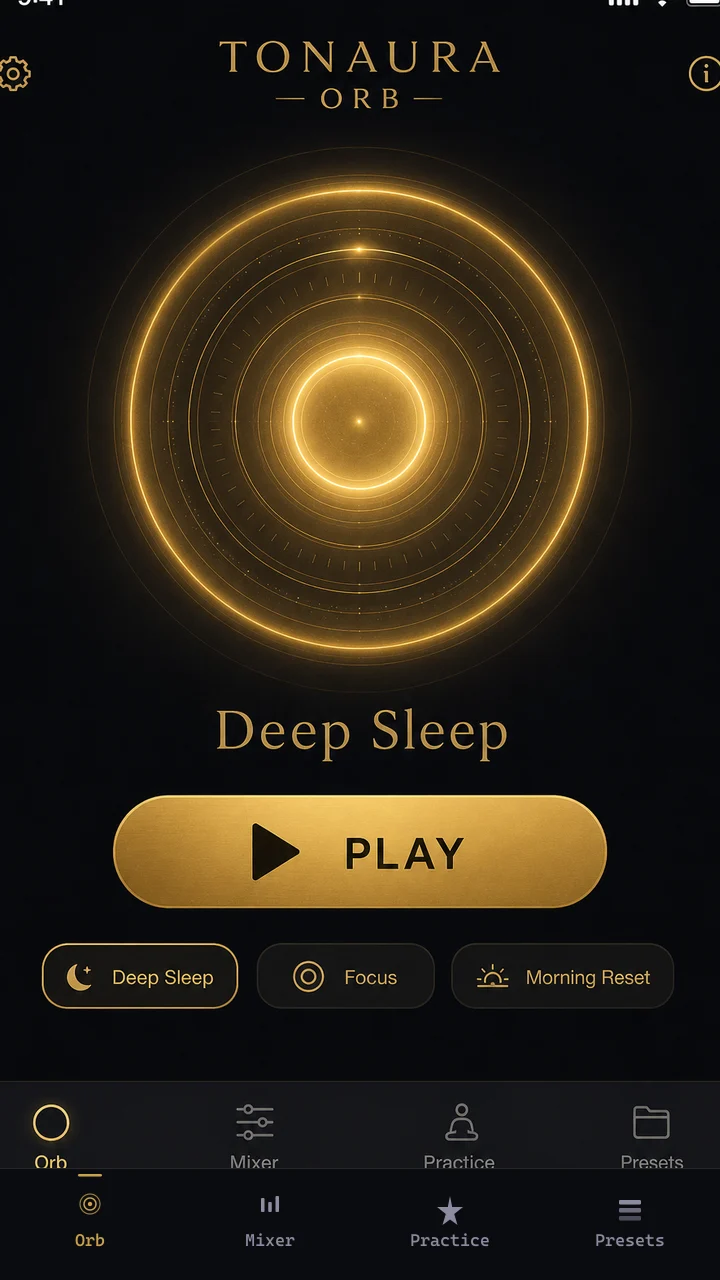
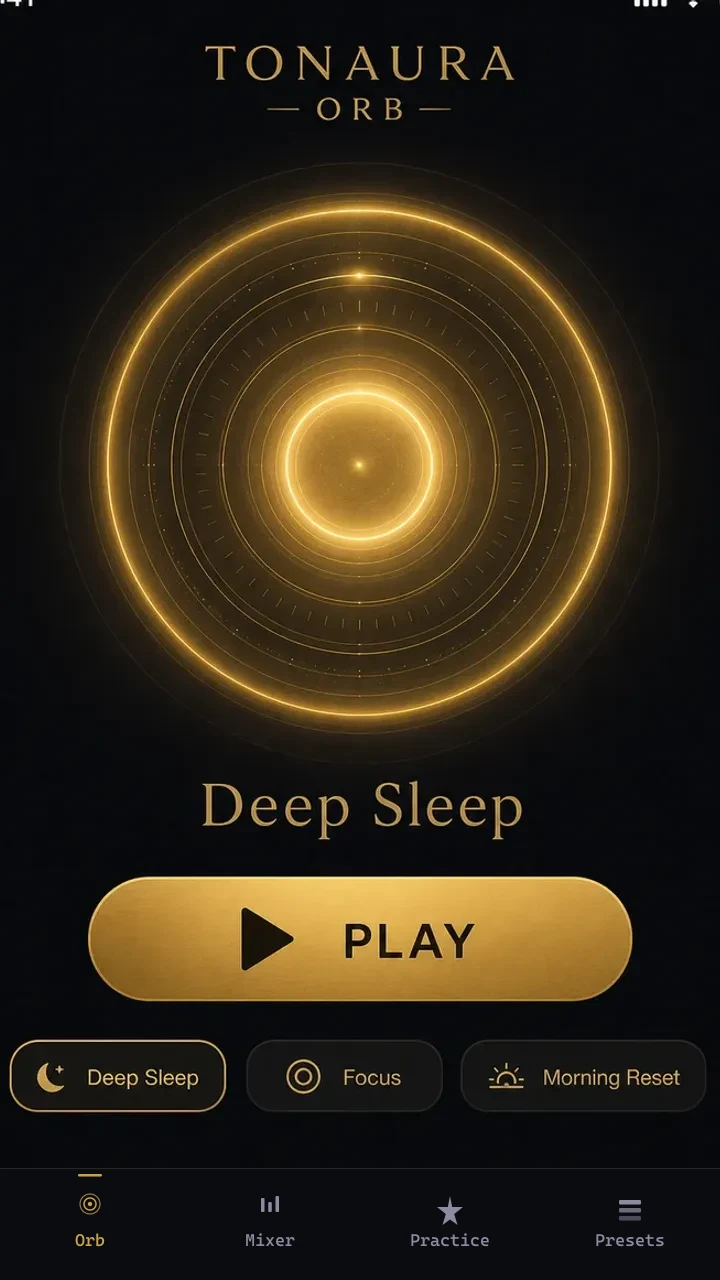
Fix showcase phones to fill frames without double tab bars.
Match screen aspect to 9:16 assets and restamp a single Orb/Mixer/Practice/Presets bar.

diff --git a/public/index.html b/public/index.html
@@ -48,7 +48,7 @@
     </div>
     <div class="hero-stage reveal delay-1" aria-hidden="true">
       <div class="hero-glow"></div>
-      <img class="hero-device" src="/images/app/orb.webp?v=4" width="720" height="1280" alt="Tonaura Orb screen" />
+      <img class="hero-device" src="/images/app/orb.webp?v=6" width="720" height="1280" alt="Tonaura Orb screen" />
     </div>
   </header>
 
@@ -70,7 +70,7 @@
         <p>Touch a tone, shape the field, and hear how layers settle together.</p>
       </div>
       <div class="feature-visual">
-        <img src="/images/app/mixer.webp?v=4" width="720" height="1280" alt="Mixer" loading="lazy" />
+        <img src="/images/app/mixer.webp?v=6" width="720" height="1280" alt="Mixer" loading="lazy" />
       </div>
     </article>
     <article class="feature-row reverse reveal">
@@ -80,7 +80,7 @@
         <p>Play, pause, and quick presets — Deep Sleep, Clear Focus, Morning Reset.</p>
       </div>
       <div class="feature-visual">
-        <img src="/images/app/orb.webp?v=4" width="720" height="1280" alt="Orb" loading="lazy" />
+        <img src="/images/app/orb.webp?v=6" width="720" height="1280" alt="Orb" loading="lazy" />
       </div>
     </article>
     <article class="feature-row reveal">
@@ -90,7 +90,7 @@
         <p>A quiet count of days you sat with a tone — not how long, not how perfect.</p>
       </div>
       <div class="feature-visual">
-        <img src="/images/app/practice.webp?v=4" width="720" height="1280" alt="Practice" loading="lazy" />
+        <img src="/images/app/practice.webp?v=6" width="720" height="1280" alt="Practice" loading="lazy" />
       </div>
     </article>
   </section>
@@ -107,7 +107,7 @@
     <article class="phone-card">
       <div class="phone-frame">
         <div class="phone-screen">
-          <img src="/images/app/mixer.webp?v=4" width="720" height="1280" alt="Tonaura mixer" loading="lazy" />
+          <img src="/images/app/mixer.webp?v=6" width="720" height="1280" alt="Tonaura mixer" loading="lazy" />
         </div>
       </div>
       <h3>The mixer</h3>
@@ -117,7 +117,7 @@
     <article class="phone-card">
       <div class="phone-frame">
         <div class="phone-screen">
-          <img src="/images/app/orb.webp?v=4" width="720" height="1280" alt="Tonaura orb mode" loading="lazy" />
+          <img src="/images/app/orb.webp?v=6" width="720" height="1280" alt="Tonaura orb mode" loading="lazy" />
         </div>
       </div>
       <h3>Orb mode</h3>
@@ -127,7 +127,7 @@
     <article class="phone-card">
       <div class="phone-frame">
         <div class="phone-screen">
-          <img src="/images/app/practice.webp?v=4" width="720" height="1280" alt="Tonaura practice streak" loading="lazy" />
+          <img src="/images/app/practice.webp?v=6" width="720" height="1280" alt="Tonaura practice streak" loading="lazy" />
         </div>
       </div>
       <h3>Practice</h3>
@@ -137,7 +137,7 @@
     <article class="phone-card">
       <div class="phone-frame">
         <div class="phone-screen">
-          <img src="/images/app/presets.webp?v=4" width="720" height="1280" alt="Tonaura presets" loading="lazy" />
+          <img src="/images/app/presets.webp?v=6" width="720" height="1280" alt="Tonaura presets" loading="lazy" />
         </div>
       </div>
       <h3>Presets</h3>
@@ -148,11 +148,11 @@
       <div class="phone-frame">
         <div class="phone-screen" data-ambient-phone>
           <div class="ambient-slides">
-            <img src="/images/app/ambients/winter.webp?v=4" alt="Winter ambient" class="is-active" />
-            <img src="/images/app/ambients/autumn.webp?v=4" alt="Autumn ambient" />
-            <img src="/images/app/ambients/summer.webp?v=4" alt="Summer ambient" />
-            <img src="/images/app/ambients/rain.webp?v=4" alt="Rain ambient" />
-            <img src="/images/app/ambients/nightsky.webp?v=4" alt="Night sky ambient" />
+            <img src="/images/app/ambients/winter.webp?v=6" alt="Winter ambient" class="is-active" />
+            <img src="/images/app/ambients/autumn.webp?v=6" alt="Autumn ambient" />
+            <img src="/images/app/ambients/summer.webp?v=6" alt="Summer ambient" />
+            <img src="/images/app/ambients/rain.webp?v=6" alt="Rain ambient" />
+            <img src="/images/app/ambients/nightsky.webp?v=6" alt="Night sky ambient" />
           </div>
         </div>
       </div>

diff --git a/scripts/fix-showcase-phone-fit.js b/scripts/fix-showcase-phone-fit.js
@@ -1,0 +1,110 @@
+/**
+ * Fix showcase phone screens:
+ * - strip double tab bars (original + stamped)
+ * - restamp a single clean 4-tab bar
+ * - keep exact 720x1280 (9:16) for CSS frame match
+ */
+const sharp = require("sharp");
+const fs = require("fs");
+const path = require("path");
+
+const ROOT = process.cwd();
+const OUT = path.join(ROOT, "public/images/app");
+const MIRROR = path.join(ROOT, "tonaura-website/tonaura-website-final/images/app");
+const W = 720;
+const H = 1280;
+const TAB_H = 112;
+/** Approximate height of the leftover original tab strip above the stamp */
+const OLD_TAB_H = 108;
+
+function tabBarSvg(activeIndex) {
+  const labels = ["Orb", "Mixer", "Practice", "Presets"];
+  const slot = W / 4;
+  const items = labels
+    .map((label, i) => {
+      const x = Math.round(slot * i + slot / 2);
+      const on = i === activeIndex;
+      const color = on ? "#C9A24B" : "#8E8AA0";
+      let icon = "";
+      if (i === 0) {
+        icon = `<circle cx="0" cy="-12" r="2.2" fill="${color}"/><circle cx="0" cy="-12" r="6" fill="none" stroke="${color}" stroke-width="1.5"/><circle cx="0" cy="-12" r="10" fill="none" stroke="${color}" stroke-width="1.2" opacity="0.75"/>`;
+      } else if (i === 1) {
+        icon = `<rect x="-9" y="-18" width="3.5" height="14" rx="1" fill="${color}"/><rect x="-1.75" y="-14" width="3.5" height="10" rx="1" fill="${color}"/><rect x="5.5" y="-20" width="3.5" height="16" rx="1" fill="${color}"/>`;
+      } else if (i === 2) {
+        icon = `<path d="M0 -20 L2.2 -9 L13 -9 L4.2 -2 L7.5 9 L0 3.5 L-7.5 9 L-4.2 -2 L-13 -9 L-2.2 -9 Z" fill="${color}"/>`;
+      } else {
+        icon = `<rect x="-11" y="-16" width="22" height="4.5" rx="1.2" fill="${color}"/><rect x="-11" y="-8" width="22" height="4.5" rx="1.2" fill="${color}" opacity="0.75"/><rect x="-11" y="0" width="22" height="4.5" rx="1.2" fill="${color}" opacity="0.5"/>`;
+      }
+      const mark = on
+        ? `<rect x="${x - 12}" y="6" width="24" height="2.5" rx="1.25" fill="#C9A24B"/>`
+        : "";
+      return `${mark}
+        <g transform="translate(${x}, 48)">
+          ${icon}
+          <text x="0" y="30" text-anchor="middle" font-family="Plus Jakarta Sans, system-ui, sans-serif" font-size="17" font-weight="500" fill="${color}">${label}</text>
+        </g>`;
+    })
+    .join("\n");
+
+  return `<?xml version="1.0" encoding="UTF-8"?>
+<svg width="${W}" height="${TAB_H}" viewBox="0 0 ${W} ${TAB_H}" xmlns="http://www.w3.org/2000/svg">
+  <rect width="${W}" height="${TAB_H}" fill="#0B0C10"/>
+  <rect x="0" y="0" width="${W}" height="1" fill="rgba(237,231,217,0.12)"/>
+  ${items}
+</svg>`;
+}
+
+async function barPng(active) {
+  return sharp(Buffer.from(tabBarSvg(active))).png().toBuffer();
+}
+
+async function fixScreen(fileName, activeTab) {
+  const srcPath = path.join(OUT, fileName);
+  const buf = fs.readFileSync(srcPath);
+  const meta = await sharp(buf).metadata();
+  const strip = TAB_H + OLD_TAB_H;
+  const bodyH = Math.max(meta.height - strip, 800);
+  const body = await sharp(buf)
+    .extract({ left: 0, top: 0, width: meta.width, height: bodyH })
+    .resize(W, H - TAB_H, { fit: "cover", position: "north" })
+    .toBuffer();
+  const bar = await barPng(activeTab);
+  const out = await sharp({
+    create: { width: W, height: H, channels: 3, background: { r: 11, g: 12, b: 16 } },
+  })
+    .composite([
+      { input: body, top: 0, left: 0 },
+      { input: bar, top: H - TAB_H, left: 0 },
+    ])
+    .webp({ quality: 88 })
+    .toBuffer();
+
+  fs.mkdirSync(OUT, { recursive: true });
+  fs.mkdirSync(MIRROR, { recursive: true });
+  const next = path.join(OUT, fileName.replace(".webp", ".next.webp"));
+  fs.writeFileSync(next, out);
+  try {
+    fs.unlinkSync(srcPath);
+  } catch (_) {}
+  try {
+    fs.renameSync(next, srcPath);
+  } catch (_) {
+    fs.copyFileSync(next, srcPath);
+    try {
+      fs.unlinkSync(next);
+    } catch (__) {}
+  }
+  fs.writeFileSync(path.join(MIRROR, fileName), out);
+  console.log("fixed", fileName);
+}
+
+(async () => {
+  await fixScreen("mixer.webp", 1);
+  await fixScreen("orb.webp", 0);
+  await fixScreen("practice.webp", 2);
+  await fixScreen("presets.webp", 3);
+  console.log("done");
+})().catch((e) => {
+  console.error(e);
+  process.exit(1);
+});

diff --git a/scripts/_keep_showcase.css b/scripts/_keep_showcase.css
@@ -25,8 +25,8 @@
     width: 100%;
     max-width: 200px;
     margin: 0 auto 16px;
-    border-radius: 24px;
-    padding: 8px;
+    border-radius: 28px;
+    padding: 7px;
     background: linear-gradient(160deg, #1a1a24 0%, #0a0a10 55%, #14141c 100%);
     border: 1px solid rgba(237,231,217,0.12);
     box-shadow: 0 20px 48px -18px rgba(0,0,0,0.7), inset 0 1px 0 rgba(255,255,255,0.04);
@@ -35,7 +35,7 @@
   .phone-frame::before {
     content: "";
     position: absolute;
-    top: 12px; left: 50%;
+    top: 11px; left: 50%;
     transform: translateX(-50%);
     width: 42px; height: 4px;
     border-radius: 999px;
@@ -46,8 +46,9 @@
   .phone-screen {
     position: relative;
     width: 100%;
-    aspect-ratio: 9 / 19.5;
-    border-radius: 17px;
+    /* Match asset ratio 720x1280 exactly — no letterbox, no vertical crop */
+    aspect-ratio: 9 / 16;
+    border-radius: 21px;
     overflow: hidden;
     background: #0B0C10;
     isolation: isolate;
@@ -59,8 +60,8 @@
     width: 100%;
     height: 100%;
     object-fit: cover;
-    object-position: center center;
-    transform: scale(1.04);
+    object-position: center top;
+    transform: scale(1.02);
     transform-origin: center center;
   }
   .ambient-slides {
@@ -87,7 +88,4 @@
     z-index: 1;
   }
   .phone-card h3 { font-size: 14px; margin-bottom: 5px; line-height: 1.25; }
-  .phone-card p { font-size: 12px; color: var(--text-faint); line-height: 1.45; max-width: 190px; margin: 0 auto; }
-
-/* ---------- Honest section ---------- */
-  
+  .phone-card p { font-size: 12px; color: var(--text-3); line-height: 1.45; max-width: 190px; margin: 0 auto; }

diff --git a/public/tonaura-home.css b/public/tonaura-home.css
@@ -252,8 +252,8 @@ p { margin: 0; }
     width: 100%;
     max-width: 200px;
     margin: 0 auto 16px;
-    border-radius: 24px;
-    padding: 8px;
+    border-radius: 28px;
+    padding: 7px;
     background: linear-gradient(160deg, #1a1a24 0%, #0a0a10 55%, #14141c 100%);
     border: 1px solid rgba(237,231,217,0.12);
     box-shadow: 0 20px 48px -18px rgba(0,0,0,0.7), inset 0 1px 0 rgba(255,255,255,0.04);
@@ -262,7 +262,7 @@ p { margin: 0; }
   .phone-frame::before {
     content: "";
     position: absolute;
-    top: 12px; left: 50%;
+    top: 11px; left: 50%;
     transform: translateX(-50%);
     width: 42px; height: 4px;
     border-radius: 999px;
@@ -273,8 +273,9 @@ p { margin: 0; }
   .phone-screen {
     position: relative;
     width: 100%;
-    aspect-ratio: 9 / 19.5;
-    border-radius: 17px;
+    /* Match asset ratio 720x1280 exactly — no letterbox, no vertical crop */
+    aspect-ratio: 9 / 16;
+    border-radius: 21px;
     overflow: hidden;
     background: #0B0C10;
     isolation: isolate;
@@ -286,8 +287,8 @@ p { margin: 0; }
     width: 100%;
     height: 100%;
     object-fit: cover;
-    object-position: center center;
-    transform: scale(1.04);
+    object-position: center top;
+    transform: scale(1.02);
     transform-origin: center center;
   }
   .ambient-slides {
